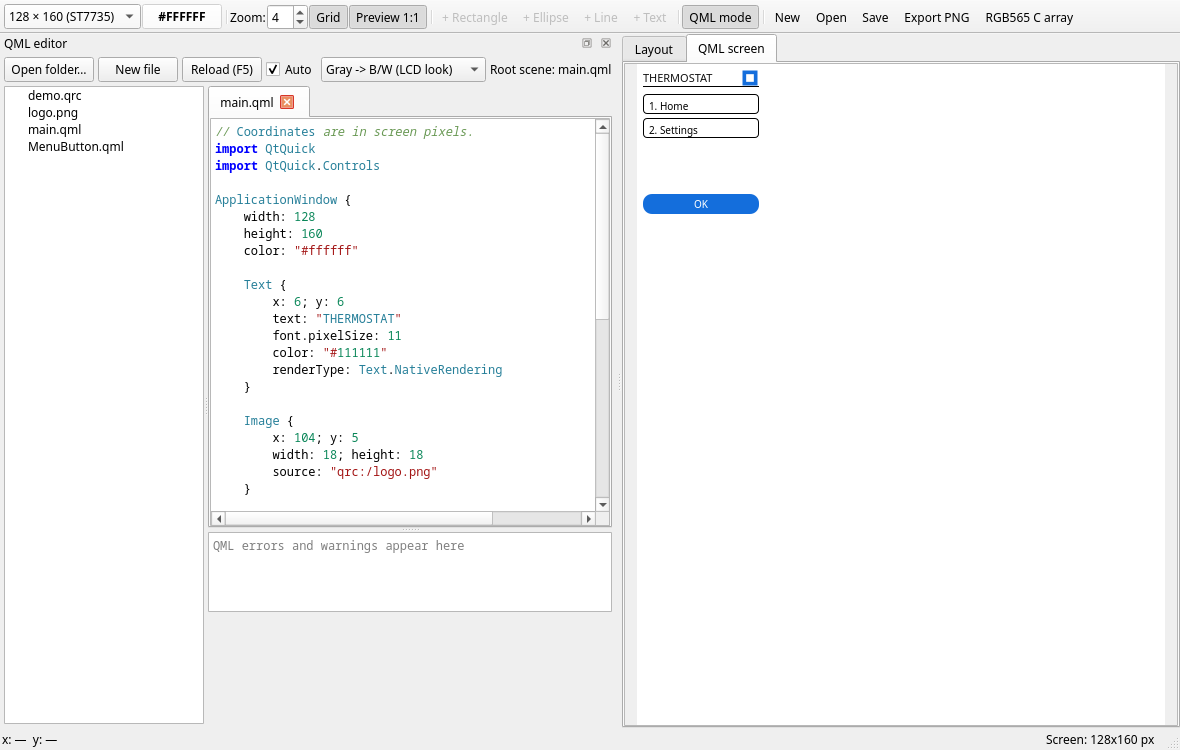
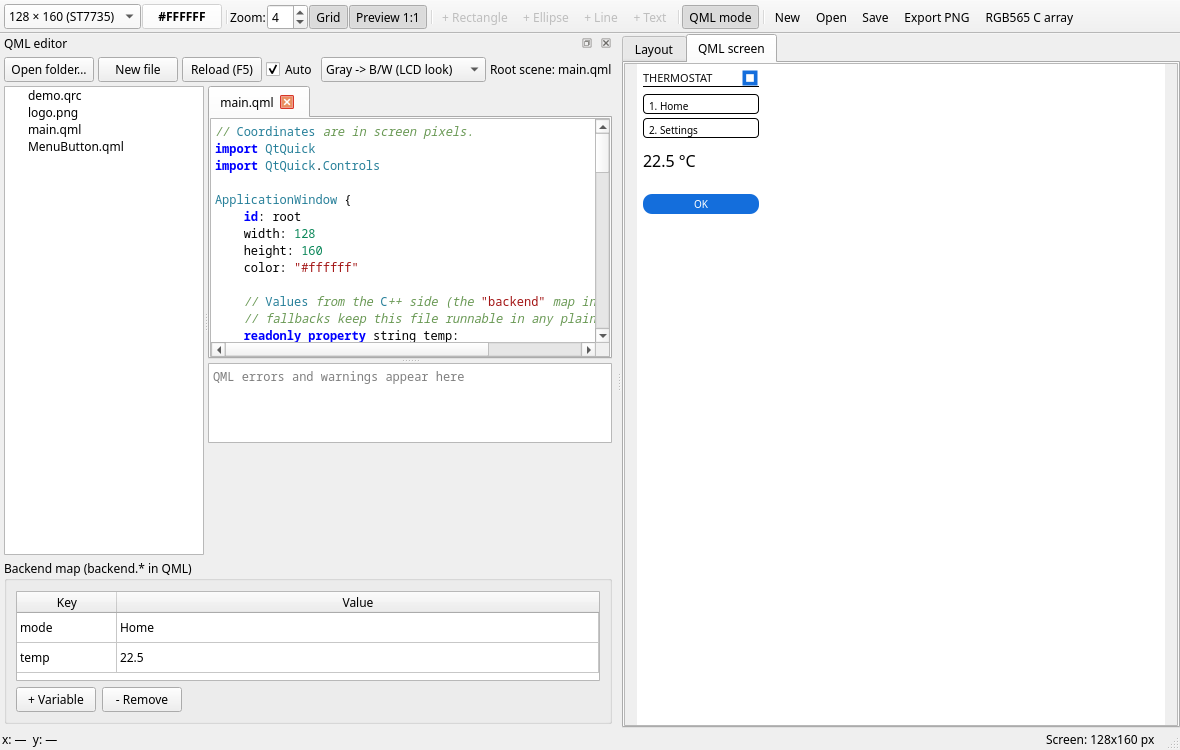
QML: backend property map with live editing and session persistence

diff --git a/src/qmlpane.cpp b/src/qmlpane.cpp
@@ -13,6 +13,7 @@
 #include <QFile>
 #include <QFileDialog>
 #include <QFileSystemModel>
+#include <QGroupBox>
 #include <QFontDatabase>
 #include <QHash>
 #include <QHBoxLayout>
@@ -23,7 +24,9 @@
 #include <QMenu>
 #include <QMimeData>
 #include <QQmlComponent>
+#include <QQmlContext>
 #include <QQmlEngine>
+#include <QQmlPropertyMap>
 #include <QQmlError>
 #include <QPlainTextEdit>
 #include <QPushButton>
@@ -36,6 +39,8 @@
 #include <QShortcut>
 #include <QSplitter>
 #include <QTabWidget>
+#include <QTableWidget>
+#include <QTableWidgetItem>
 #include <QTimer>
 #include <QTreeView>
 #include <QUrl>
@@ -132,9 +137,19 @@ import QtQuick
 import QtQuick.Controls
 
 ApplicationWindow {
+    id: root
     width: 128
     height: 160
     color: "#ffffff"
+
+    // Values from the C++ side (the "backend" map in the editor); the
+    // fallbacks keep this file runnable in any plain Qt Quick project.
+    readonly property string temp:
+        typeof backend !== "undefined" && backend.temp !== undefined
+            ? String(backend.temp) : "22.5"
+    readonly property string mode:
+        typeof backend !== "undefined" && backend.mode !== undefined
+            ? String(backend.mode) : "Home"
 
     Text {
         x: 6; y: 6
@@ -152,7 +167,14 @@ ApplicationWindow {
 
     Rectangle { x: 6; y: 22; width: 116; height: 1; color: "#000000" }
 
-    MenuButton { x: 6; y: 30; label: "1. Home" }
+    Text {
+        x: 6; y: 86
+        text: root.temp + " \u00B0C"
+        font.pixelSize: 16
+        renderType: Text.NativeRendering
+    }
+
+    MenuButton { x: 6; y: 30; label: "1. " + root.mode }
     MenuButton { x: 6; y: 54; label: "2. Settings" }
 
     Rectangle {
@@ -303,7 +325,48 @@ void QmlPane::buildUi()
     mainSplit->setSizes({200, 600});
     lay->addWidget(mainSplit, 1);
 
+    auto *varsBox = new QGroupBox(tr("Backend map (backend.* in QML)"));
+    auto *varsLay = new QVBoxLayout(varsBox);
+    m_varsTable = new QTableWidget(0, 2);
+    m_varsTable->setHorizontalHeaderLabels({tr("Key"), tr("Value")});
+    m_varsTable->horizontalHeader()->setStretchLastSection(true);
+    m_varsTable->verticalHeader()->setVisible(false);
+    m_varsTable->setMaximumHeight(90);
+    connect(m_varsTable, &QTableWidget::itemChanged, this, &QmlPane::onVarEdited);
+    varsLay->addWidget(m_varsTable);
+    auto *varsRow = new QHBoxLayout;
+    auto *addVar = new QPushButton(tr("+ Variable"));
+    auto *delVar = new QPushButton(tr("- Remove"));
+    connect(addVar, &QPushButton::clicked, this, [this] {
+        m_fillingVars = true;
+        const int r = m_varsTable->rowCount();
+        m_varsTable->insertRow(r);
+        QString key = QStringLiteral("key1");
+        for (int i = 1; m_vars->keys().contains(key); ++i)
+            key = QStringLiteral("key%1").arg(i + 1);
+        m_varsTable->setItem(r, 0, new QTableWidgetItem(key));
+        m_varsTable->setItem(r, 1, new QTableWidgetItem(QStringLiteral("0")));
+        m_fillingVars = false;
+        applyVarsFromTable();
+    });
+    connect(delVar, &QPushButton::clicked, this, [this] {
+        const int r = m_varsTable->currentRow();
+        if (r < 0)
+            return;
+        m_fillingVars = true;
+        m_varsTable->removeRow(r);
+        m_fillingVars = false;
+        applyVarsFromTable();
+    });
+    varsRow->addWidget(addVar);
+    varsRow->addWidget(delVar);
+    varsRow->addStretch(1);
+    varsLay->addLayout(varsRow);
+    lay->addWidget(varsBox);
+
     m_engine = new QQmlEngine(this);
+    m_vars = QQmlPropertyMap::create(this); // plain ctor lacks QML integration
+    m_engine->rootContext()->setContextProperty(QStringLiteral("backend"), m_vars);
     m_interceptor = new QrcUrlInterceptor;
     m_engine->addUrlInterceptor(m_interceptor);
     connect(m_engine, &QQmlEngine::warnings, this, [this](const QList<QQmlError> &warnings) {
@@ -511,6 +574,8 @@ void QmlPane::loadDemoProject()
         out.write(f.second);
     }
     openProjectDir(m_tempDir.path(), QStringLiteral("main.qml"));
+    setVars({{QStringLiteral("temp"), 22.5},
+             {QStringLiteral("mode"), QStringLiteral("Home")}});
 }
 
 bool QmlPane::writeEntrySource(const QString &code)
@@ -706,6 +771,71 @@ void QmlPane::newFile()
     f.write("import QtQuick\n\nRectangle {\n}\n");
     f.close();
     openFile(name);
+}
+
+QVariantMap QmlPane::vars() const
+{
+    QVariantMap out;
+    if (!m_vars)
+        return out;
+    const QStringList keys = m_vars->keys();
+    for (const QString &k : keys)
+        out.insert(k, m_vars->value(k));
+    return out;
+}
+
+void QmlPane::setVars(const QVariantMap &vars)
+{
+    if (!m_varsTable)
+        return;
+    m_fillingVars = true;
+    m_varsTable->setRowCount(int(vars.size()));
+    int r = 0;
+    for (auto it = vars.cbegin(); it != vars.cend(); ++it, ++r) {
+        m_varsTable->setItem(r, 0, new QTableWidgetItem(it.key()));
+        m_varsTable->setItem(r, 1, new QTableWidgetItem(it.value().toString()));
+    }
+    m_fillingVars = false;
+    applyVars(vars);
+}
+
+void QmlPane::applyVars(const QVariantMap &vars)
+{
+    if (!m_vars)
+        return;
+    const QStringList old = m_vars->keys();
+    for (const QString &k : old)
+        m_vars->clear(k);
+    for (auto it = vars.cbegin(); it != vars.cend(); ++it)
+        m_vars->insert(it.key(), it.value());
+}
+
+void QmlPane::applyVarsFromTable()
+{
+    QVariantMap vars;
+    for (int r = 0; r < m_varsTable->rowCount(); ++r) {
+        const QTableWidgetItem *keyItem = m_varsTable->item(r, 0);
+        const QTableWidgetItem *valItem = m_varsTable->item(r, 1);
+        if (!keyItem)
+            continue;
+        const QString key = keyItem->text().trimmed();
+        if (key.isEmpty())
+            continue;
+        const QString val = valItem ? valItem->text().trimmed() : QString();
+        bool isNumber = false;
+        const double d = val.toDouble(&isNumber);
+        vars.insert(key, (isNumber && !val.isEmpty()) ? QVariant(d) : QVariant(val));
+    }
+    applyVars(vars);
+    emit varsEdited();
+}
+
+void QmlPane::onVarEdited(QTableWidgetItem *item)
+{
+    Q_UNUSED(item);
+    if (m_fillingVars)
+        return;
+    applyVarsFromTable();
 }
 
 void QmlPane::reloadNow()

diff --git a/src/qmlpane.h b/src/qmlpane.h
@@ -1,6 +1,7 @@
 #pragma once
 
 #include <QImage>
+#include <QVariantMap>
 #include <QString>
 #include <QTemporaryDir>
 #include <QUrl>
@@ -9,6 +10,9 @@
 
 class QComboBox;
 class QFileSystemModel;
+class QQmlPropertyMap;
+class QTableWidget;
+class QTableWidgetItem;
 class QLabel;
 class QQmlEngine;
 class QPlainTextEdit;
@@ -55,6 +59,9 @@ public:
     QString logText() const;
     QImage lastFrame() const { return m_lastFrame; }
 
+    QVariantMap vars() const;            ///< current backend.* map contents
+    void setVars(const QVariantMap &vars); ///< replace map and editor contents
+
     /**
      * @brief Stable host widget for the central preview area.
      *
@@ -69,6 +76,7 @@ public:
 signals:
     void frameUpdated(const QImage &image); ///< new frame after post-processing
     void sourceEdited();
+    void varsEdited(); ///< backend.* map changed from the editor
 
 public slots:
     void reloadNow(); ///< save the active file and reload the scene
@@ -87,11 +95,14 @@ private:
     void updateEntryLabel();
     void scanQrc(); ///< rebuild the qrc:/ -> file mapping from *.qrc files
     void rebuildPreview(const QUrl &url); ///< reload the visible preview for both root kinds
+    void applyVars(const QVariantMap &vars); ///< replace the context property map
+    void applyVarsFromTable();              ///< rebuild the map from the editor table
     void newFile();
     void appendLog(const QString &line);
 
 private slots:
     void onTextChanged(); ///< dirty mark on the tab, debounce autosave
+    void onVarEdited(QTableWidgetItem *item);
 
 private:
     QTreeView *m_tree = nullptr;
@@ -107,6 +118,9 @@ private:
     QQmlEngine *m_engine = nullptr;
     QrcUrlInterceptor *m_interceptor = nullptr;
     QComboBox *m_snapCombo = nullptr; ///< FrameSnap mode selector
+    QQmlPropertyMap *m_vars = nullptr; ///< the "backend" map exposed to QML
+    QTableWidget *m_varsTable = nullptr;
+    bool m_fillingVars = false;
     QLabel *m_entryLabel = nullptr;   ///< current entry file
     QTimer m_debounce;                ///< typing-to-autosave delay
     QTimer m_grabTimer;               ///< periodic frame capture

diff --git a/src/mainwindow.cpp b/src/mainwindow.cpp
@@ -301,6 +301,7 @@ void MainWindow::buildUi()
     m_qmlPane->loadDemoProject();
     connect(m_qmlPane, &QmlPane::frameUpdated, this, &MainWindow::onQmlFrame);
     connect(m_qmlPane, &QmlPane::sourceEdited, this, &MainWindow::markDirty);
+    connect(m_qmlPane, &QmlPane::varsEdited, this, &MainWindow::markDirty);
 
     m_qmlScroll->setWidget(m_qmlPane->previewWidget());
     QTimer::singleShot(0, this, &MainWindow::fitQmlPreview);
@@ -1138,6 +1139,7 @@ bool MainWindow::saveProject()
         root["mode"] = QStringLiteral("qml");
         root["qmlDir"] = m_qmlPane->projectDir();
         root["qmlEntry"] = m_qmlPane->entryFile();
+        root["qmlVars"] = QJsonObject::fromVariantMap(m_qmlPane->vars());
     } else {
         root["mode"] = QStringLiteral("layout");
         QJsonArray arr;
@@ -1222,6 +1224,8 @@ void MainWindow::openProject()
                                      tr("QML folder %1 not found, loading the demo project").arg(dir));
             m_qmlPane->loadDemoProject();
         }
+        if (root.contains(QLatin1String("qmlVars")))
+            m_qmlPane->setVars(root["qmlVars"].toObject().toVariantMap());
         const QString legacy = root["qml"].toString();
         if (!legacy.isEmpty())
             m_qmlPane->writeEntrySource(legacy);

diff --git a/README.md b/README.md
@@ -47,6 +47,28 @@ rendered scene on the same pixel grid; switching tabs switches modes.
 - QML errors and warnings are logged with file/line/column; on error the
   canvas keeps the last good frame.
 - The "New file" button creates a .qml file in the project folder.
+- **Backend map**: the table at the bottom of the panel edits a
+  `QQmlPropertyMap` exposed to QML as `backend` — an imitation of the C++
+  side. Add keys and values, and every `backend.<key>` binding in the
+  scene updates live. Values that look numeric are passed as numbers.
+  The map is saved into the project session (`"qmlVars"` in .pixui.json).
+
+To keep QML files portable into a real project, reference the map with a
+fallback (the demo shows the pattern):
+
+```qml
+readonly property string temp:
+    typeof backend !== "undefined" && backend.temp !== undefined
+        ? String(backend.temp) : "22.5"
+```
+
+Without the editor (e.g. in Qt Creator) the fallback values kick in and
+the file renders unchanged; in the real project `backend` maps to the
+actual context property or the same `QQmlPropertyMap`.
+
+The entry scene root can be an `ApplicationWindow` as well as a plain
+Item; `ApplicationWindow` scenes are rendered through a hidden
+`QQuickWindow` of exact screen size.
 
 The code editor follows Qt Creator basics:
 
